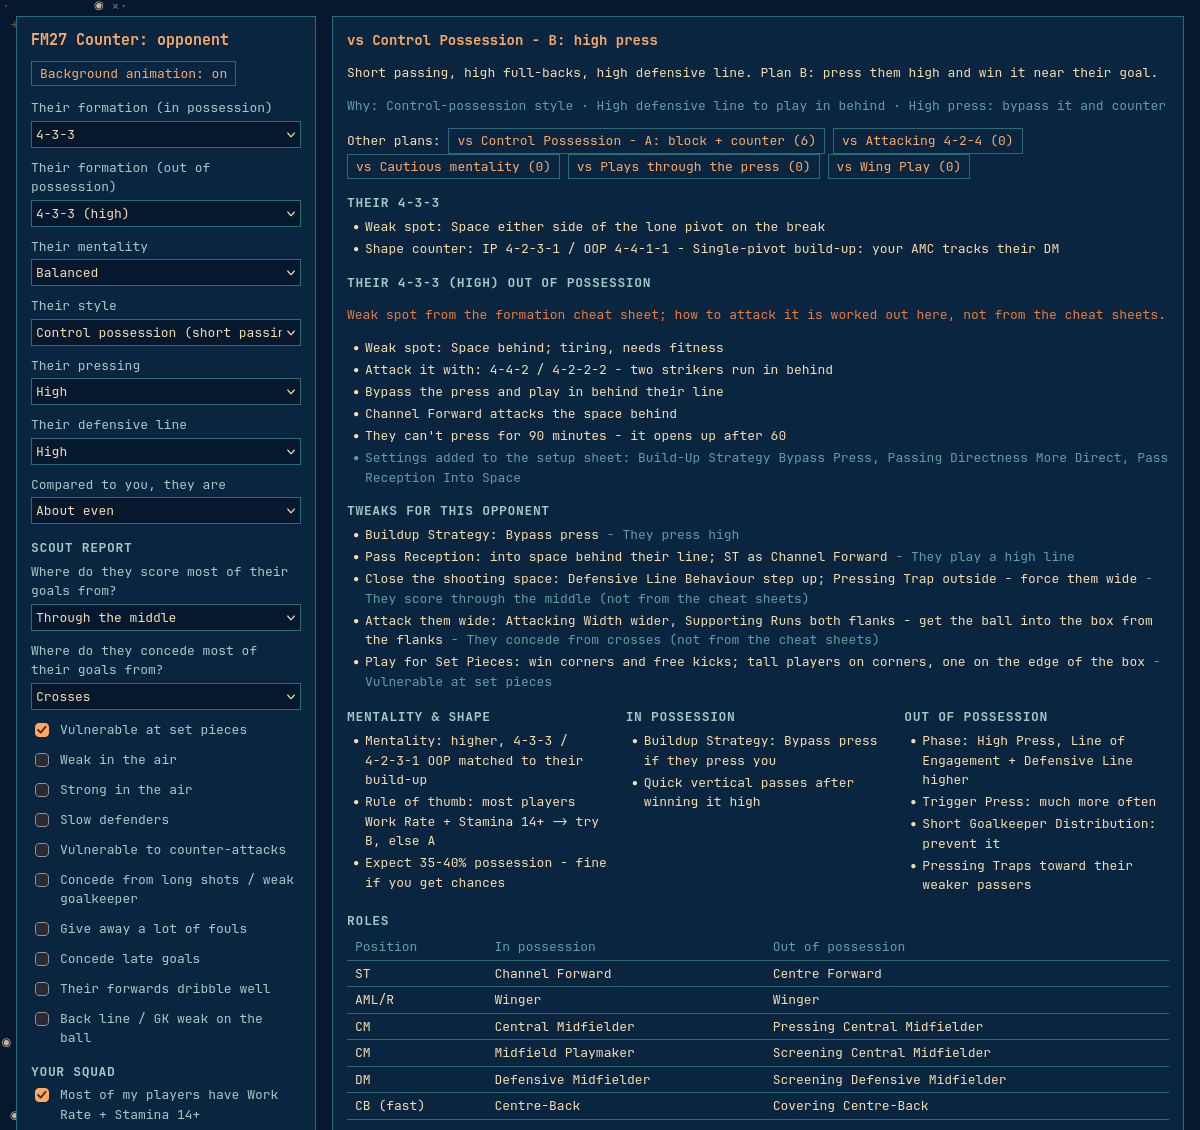
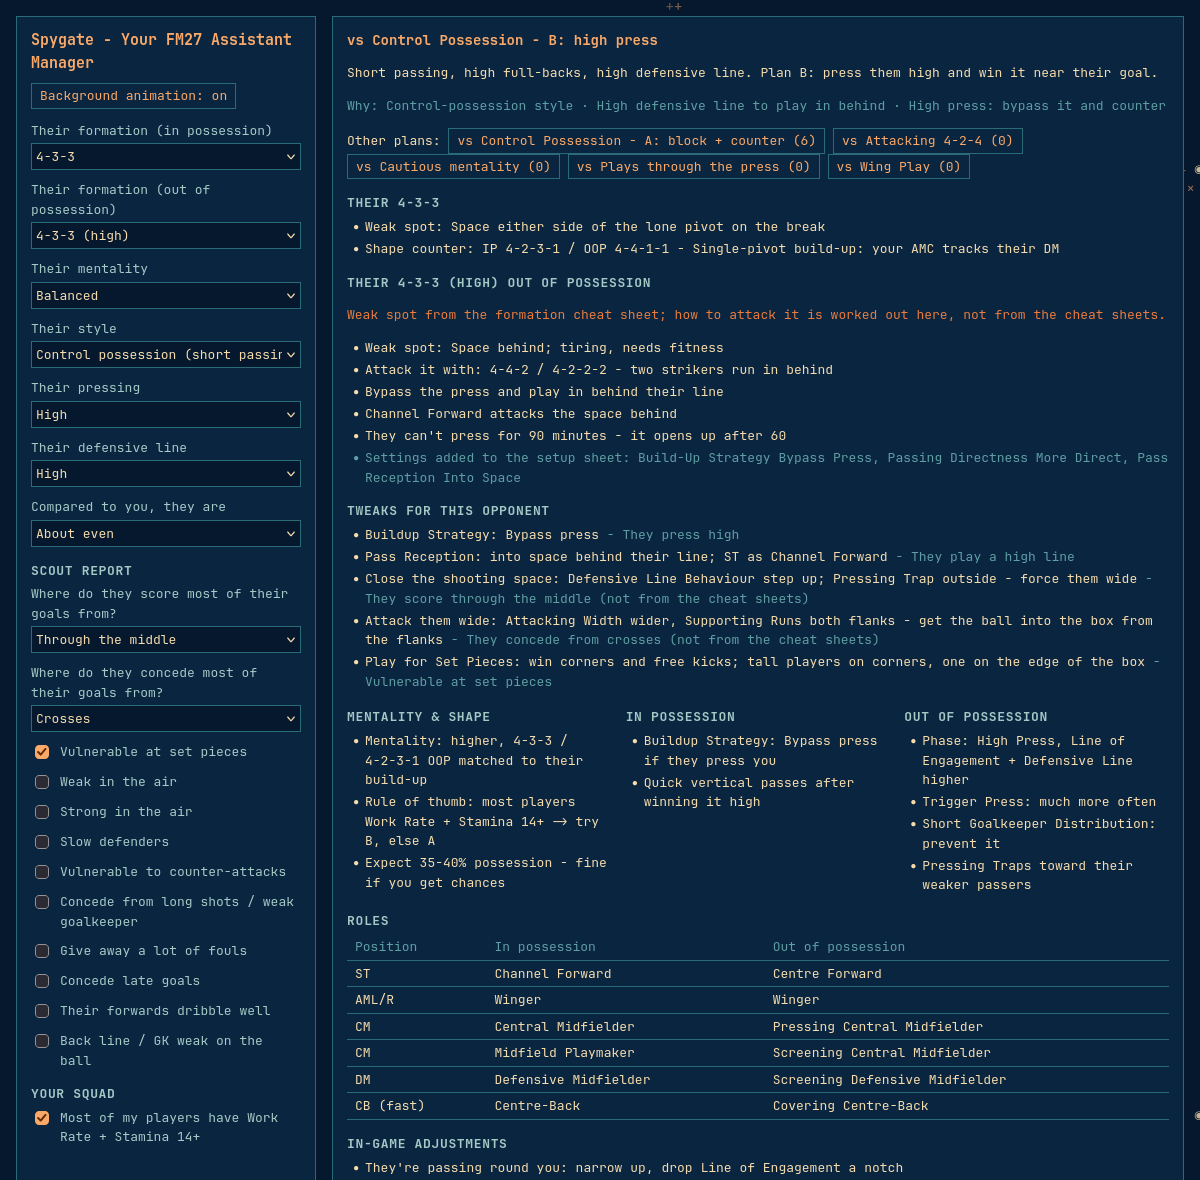
Rename to Spygate - Your FM27 Assistant Manager

diff --git a/index.html b/index.html
@@ -1,6 +1,6 @@
 <!doctype html>
 <html lang="en"><head><meta charset="utf-8"><meta name="viewport" content="width=device-width,initial-scale=1">
-<title>FM27 Counter</title>
+<title>Spygate - Your FM27 Assistant Manager</title>
 <style>
 /* Terminal look, same Omarchy palette as the staff tool. */
 :root{--bg:#05182e;--bg-lift:#0a2540;--ink:#f6dcac;--soft:#a7c9c6;--muted:#5f9ea3;--line:#2a6b78;--accent:#faa968;--warn:#e97b3c;--cyan:#8cbfb8;
@@ -30,7 +30,7 @@ th,td{text-align:left;padding:3px 8px;border-bottom:1px solid var(--line)}th{col
 <canvas id="bg" aria-hidden="true"></canvas>
 <main>
 <form class="box" id="form" onsubmit="return false">
-  <h1>FM27 Counter: opponent</h1>
+  <h1>Spygate - Your FM27 Assistant Manager</h1>
   <button type="button" id="bgToggle" aria-pressed="true" style="margin:-4px 0 12px">Background animation: on</button>
   <label>Their formation (in possession)<select name="formation"></select></label>
   <label>Their formation (out of possession)<select name="oopShape"></select></label>

diff --git a/README.md b/README.md
@@ -1,4 +1,4 @@
-# FM27 Counter
+# Spygate - Your FM27 Assistant Manager
 
 A counter-tactic helper for Football Manager 27. Describe the opponent (their in and out of possession shapes, mentality, style, pressing, defensive line, and what the scout report says) and it gives you:
 
